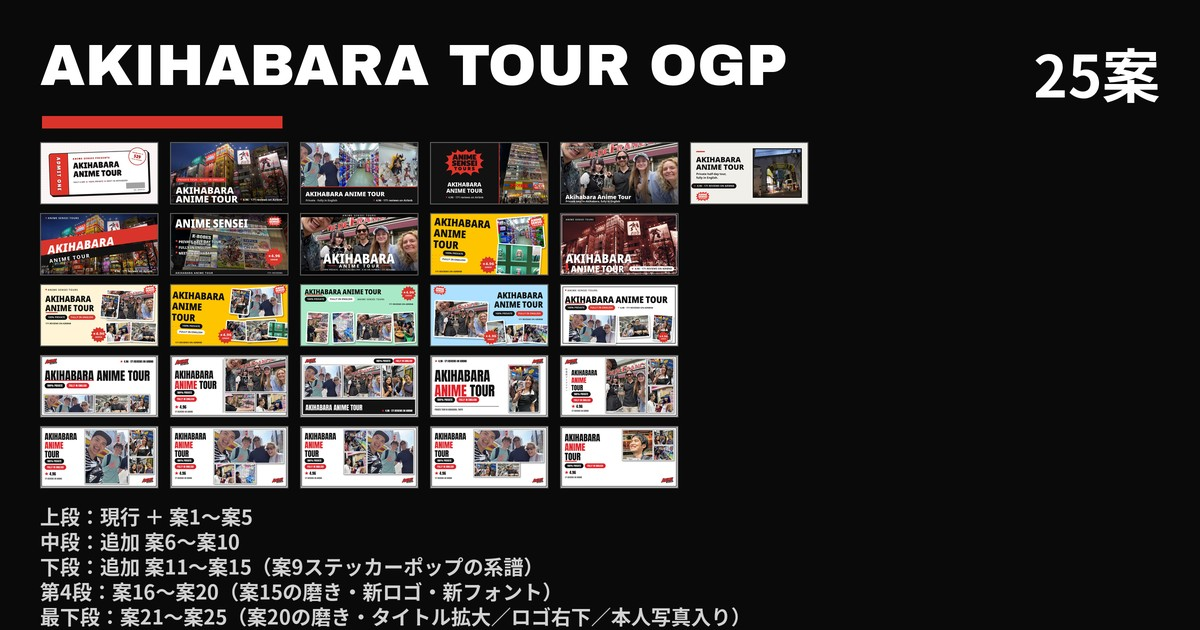
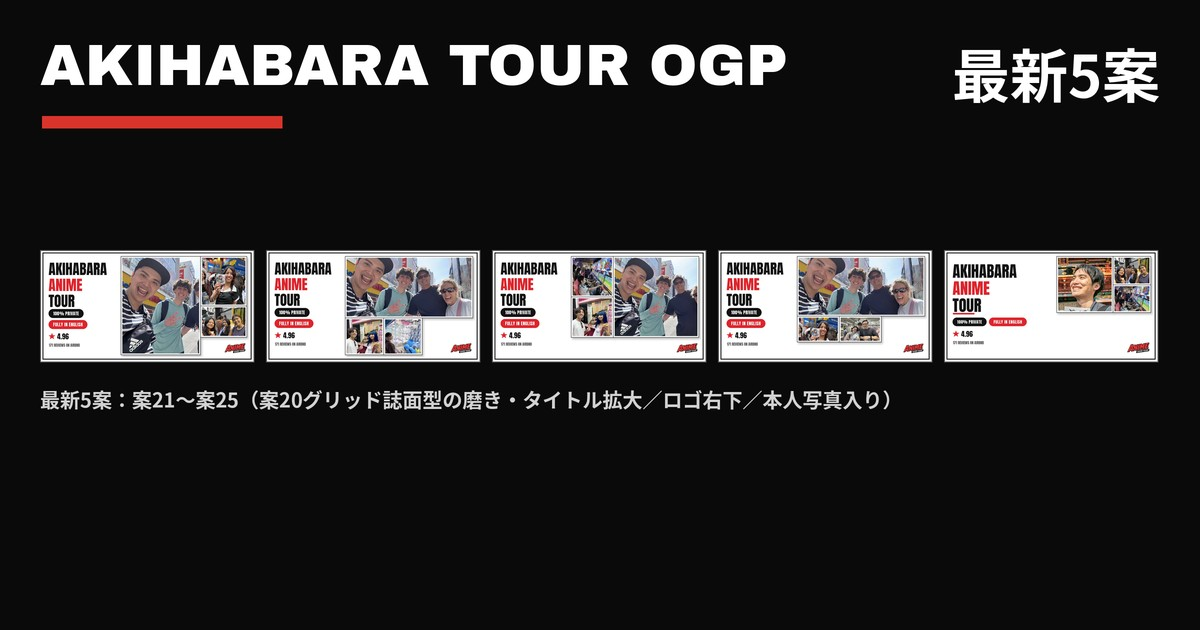
ツアーLP OGPボード: 最新5案（案21-25）のみに整理し、案1-20と現行表示を削除

diff --git a/akiba-tour-ogp/index.html b/akiba-tour-ogp/index.html
@@ -3,9 +3,9 @@
 <head>
 <meta charset="utf-8">
 <meta name="viewport" content="width=device-width, initial-scale=1">
-<title>秋葉原アニメツアーLP OGP 25案</title>
-<meta property="og:title" content="秋葉原アニメツアーLP OGP 25案">
-<meta property="og:description" content="animesenseijp.com/akihabara-tour/ のOGP画像、新デザイン25案の見比べ。現行との比較つき。">
+<title>秋葉原アニメツアーLP OGP 最新5案</title>
+<meta property="og:title" content="秋葉原アニメツアーLP OGP 最新5案">
+<meta property="og:description" content="animesenseijp.com/akihabara-tour/ のOGP画像、最新の5案（案21〜案25）の見比べ。">
 <meta property="og:image" content="https://yukitchy.github.io/booking-trends-board/akiba-tour-ogp/og.jpg">
 <meta property="og:url" content="https://yukitchy.github.io/booking-trends-board/akiba-tour-ogp/">
 <style>
@@ -20,158 +20,18 @@
   section { margin-bottom: 44px; }
   .hd { display: flex; align-items: baseline; gap: 12px; margin-bottom: 10px; flex-wrap: wrap; }
   .num { background: #141414; color: #fff; font-weight: 900; font-size: 15px; padding: 4px 12px; border-radius: 999px; }
-  .num.cur { background: #8a8a8a; }
   .num.new { background: #D9342B; }
   .cap { font-size: 14.5px; font-weight: 700; }
   .sub { font-size: 12.5px; color: #666; width: 100%; }
   img.ogp { width: 1200px; max-width: 100%; height: auto; display: block; border: 1px solid #d8d4cc; background: #fff; }
-  .sep { display: flex; align-items: center; gap: 14px; margin: 56px 0 36px; }
-  .sep .t { font-size: 19px; font-weight: 900; white-space: nowrap; }
-  .sep .l { flex: 1; height: 3px; background: #141414; }
-  .sep .r { width: 64px; height: 3px; background: #D9342B; }
 </style>
 </head>
 <body>
 <div class="wrap">
-  <h1>秋葉原アニメツアーLP<br>OGP画像 25案</h1>
+  <h1>秋葉原アニメツアーLP<br>OGP画像 最新5案</h1>
   <div class="rule"></div>
-  <p class="lead">対象ページ：<a href="https://www.animesenseijp.com/akihabara-tour/">Akihabara Anime Tour（animesenseijp.com/akihabara-tour/）</a>の OGP 画像、新デザイン25案です。案6〜案10は「もっとワクワクさせる、オシャレな感じで」という方向で追加した第2弾、案11〜案15は当たりだった案9（ステッカーポップ型）の系譜で、もっとオシャレに・写真を多く・人がわいわいしている写真を主役に作った第3弾です。案16〜案20は、選ばれた案15（ホワイト・フレーム型）を磨いた第4弾で、ロゴを新しい公式ロゴに、タイトルフォントを Anton に差し替えています。案21〜案25は、選ばれた案20（グリッド誌面型）を磨いた第5弾で、縦書きの日本語を外し、タイトルを大きく左上に寄せ、ロゴを右下に移し、各案にガイド本人の写真（顔が見切れていないもの）を1枚入れています。全案 1200×630・実写真使用。本番の og:image はまだ差し替えていません。</p>
+  <p class="lead">対象ページ：<a href="https://www.animesenseijp.com/akihabara-tour/">Akihabara Anime Tour（animesenseijp.com/akihabara-tour/）</a>の OGP 画像、最新の5案（案21〜案25）です。選ばれた案20（グリッド誌面型）を磨いた第5弾で、縦書きの日本語を外し、タイトルを大きく左上に寄せ、ロゴを右下に移し、各案にガイド本人の写真（顔が見切れていないもの）を1枚入れています。全案 1200×630・実写真使用。本番の og:image はまだ差し替えていません。</p>
   <p class="note">番号で選んでください。選ばれた案を本番に設定します。</p>
-
-  <section>
-    <div class="hd"><span class="num cur">現行</span><span class="cap">チケット風イラスト</span>
-    <span class="sub">いま本番に入っている og-share-v2。写真なしの「ADMIT ONE」チケット風イラスト。比較用。</span></div>
-    <img class="ogp" src="current.jpg" alt="現行OGP">
-  </section>
-
-  <section>
-    <div class="hd"><span class="num">案1</span><span class="cap">夜景フルブリード＋タイポ</span>
-    <span class="sub">秋葉原の夜景を全面に、左下に特大タイトルと赤ピル「PRIVATE TOUR · FULLY IN ENGLISH」。王道タイプ。</span></div>
-    <img class="ogp" src="ogp-1.jpg" alt="案1">
-  </section>
-
-  <section>
-    <div class="hd"><span class="num">案2</span><span class="cap">写真コラージュ3枚＋黒帯</span>
-    <span class="sub">ゲストとの自撮り・ガシャポン・フィギュア展示の3枚＋黒帯タイポ。ツアーの中身が一目で伝わるタイプ。</span></div>
-    <img class="ogp" src="ogp-2.jpg" alt="案2">
-  </section>
-
-  <section>
-    <div class="hd"><span class="num">案3</span><span class="cap">黒ベース＋公式ロゴ＋ラジオ会館</span>
-    <span class="sub">公式バーストロゴ（正本ファイル）主役に、右はラジオ会館の夜景。ブランド重視のタイプ。</span></div>
-    <img class="ogp" src="ogp-3.jpg" alt="案3">
-  </section>
-
-  <section>
-    <div class="hd"><span class="num">案4</span><span class="cap">集合写真フルブリード・文字最小</span>
-    <span class="sub">ゲストとの集合写真を全面に、文字はタイトルと一言だけ。楽しさ・雰囲気重視のタイプ。</span></div>
-    <img class="ogp" src="ogp-4.jpg" alt="案4">
-  </section>
-
-  <section>
-    <div class="hd"><span class="num">案5</span><span class="cap">紙色ベース＋写真フレーム</span>
-    <span class="sub">紙色 #F1EFEA に高架下の路地写真を黒枠で額装、黒タイポ＋評価ピル＋公式ロゴ。eatmap系の明るいタイプ。</span></div>
-    <img class="ogp" src="ogp-5.jpg" alt="案5">
-  </section>
-
-  <div class="sep"><span class="t">追加5案</span><span class="l"></span><span class="r"></span></div>
-
-  <section>
-    <div class="hd"><span class="num new">案6</span><span class="cap">ネオン・スラッシュ</span>
-    <span class="sub">秋葉原の夜景に赤い斜め帯を切り込み、タイトルもイタリックで斜めに走らせた、スピード感と熱量のあるタイプ。</span></div>
-    <img class="ogp" src="ogp-6.jpg" alt="案6">
-  </section>
-
-  <section>
-    <div class="hd"><span class="num new">案7</span><span class="cap">雑誌の表紙型</span>
-    <span class="sub">ラジオ会館の壁面写真を表紙に、マストヘッド＋カバーライン＋スターバーストの評価バッジで、雑誌の表紙の文法で組んだタイプ。</span></div>
-    <img class="ogp" src="ogp-7.jpg" alt="案7">
-  </section>
-
-  <section>
-    <div class="hd"><span class="num new">案8</span><span class="cap">映画ポスター型</span>
-    <span class="sub">ゲストとの集合写真をシネマティックに。上下のレターボックス＋中央の大タイトル＋下部のクレジット風ラインで、映画ポスターの文法に。</span></div>
-    <img class="ogp" src="ogp-8.jpg" alt="案8">
-  </section>
-
-  <section>
-    <div class="hd"><span class="num new">案9</span><span class="cap">ステッカーポップ型</span>
-    <span class="sub">ビビッドな黄色の地に、ガシャポンとフィギュアの写真ステッカー、公式ロゴと評価バッジを散らした、遊び心のあるタイプ。</span></div>
-    <img class="ogp" src="ogp-9.jpg" alt="案9">
-  </section>
-
-  <section>
-    <div class="hd"><span class="num new">案10</span><span class="cap">デュオトーン・ポスター型</span>
-    <span class="sub">秋葉原の夜景を赤系デュオトーンに落とし込み、紙色のフレームと大タイポで、映画ポスターのように仕上げたタイプ。</span></div>
-    <img class="ogp" src="ogp-10.jpg" alt="案10">
-  </section>
-
-
-  <div class="sep"><span class="t">追加5案（案9の系譜）</span><span class="l"></span><span class="r"></span></div>
-
-  <section>
-    <div class="hd"><span class="num new">案11</span><span class="cap">クリーム・グリッド型</span>
-    <span class="sub">柔らかいクリーム地にタイポを整え、ゲストとの写真4枚をグリッド寄せに配置。案9の賑やかさを残しつつ、余白と整列で洗練させたタイプ。</span></div>
-    <img class="ogp" src="ogp-11.jpg" alt="案11">
-  </section>
-
-  <section>
-    <div class="hd"><span class="num new">案12</span><span class="cap">イエロー・スキャッター洗練型</span>
-    <span class="sub">案9の黄色地＋写真ステッカー散らしを整えた進化版。集合自撮りを主役に、人写真4枚＋フィギュア1枚を散らしたタイプ。</span></div>
-    <img class="ogp" src="ogp-12.jpg" alt="案12">
-  </section>
-
-  <section>
-    <div class="hd"><span class="num new">案13</span><span class="cap">ミント・バンド型</span>
-    <span class="sub">爽やかなミント地。上部にタイトルのバンド、下段に人の写真4枚を整列させた、清潔感のあるタイプ。</span></div>
-    <img class="ogp" src="ogp-13.jpg" alt="案13">
-  </section>
-
-  <section>
-    <div class="hd"><span class="num new">案14</span><span class="cap">スカイ・ポラロイド型</span>
-    <span class="sub">空色地に特大の集合写真ステッカーを主役に据え、小さなステッカー3枚を添えたタイプ。人の楽しさが一番大きく伝わるタイプ。</span></div>
-    <img class="ogp" src="ogp-14.jpg" alt="案14">
-  </section>
-
-  <section>
-    <div class="hd"><span class="num new">案15</span><span class="cap">ホワイト・フレーム型</span>
-    <span class="sub">白地＋黒フレームの編集デザイン。写真は人の笑顔3枚に絞り、タイポと余白で魅せる一番すっきりしたタイプ。</span></div>
-    <img class="ogp" src="ogp-15.jpg" alt="案15">
-  </section>
-
-  <div class="sep"><span class="t">追加5案（案15の磨き）</span><span class="l"></span><span class="r"></span></div>
-
-  <section>
-    <div class="hd"><span class="num new">案16</span><span class="cap">王道磨き型</span>
-    <span class="sub">案15の骨格そのままに、新ロゴ＋Antonで締め直した王道版。写真は傾けず真っ直ぐに並べ、タイトル下の赤ラインとピルで整えたタイプ。</span></div>
-    <img class="ogp" src="ogp-16.jpg" alt="案16">
-  </section>
-
-  <section>
-    <div class="hd"><span class="num new">案17</span><span class="cap">左右分割型</span>
-    <span class="sub">左にロゴ・タイトル・ピル・評価、右に写真3枚を置いた左右分割。雑誌の誌面のような構成のタイプ。</span></div>
-    <img class="ogp" src="ogp-17.jpg" alt="案17">
-  </section>
-
-  <section>
-    <div class="hd"><span class="num new">案18</span><span class="cap">写真主役・下帯型</span>
-    <span class="sub">笑顔の写真3枚を大きく見せ、タイトルと評価は下の黒帯に集約。写真の楽しさが主役のタイプ。</span></div>
-    <img class="ogp" src="ogp-18.jpg" alt="案18">
-  </section>
-
-  <section>
-    <div class="hd"><span class="num new">案19</span><span class="cap">タイポ主役型</span>
-    <span class="sub">特大のタイトルタイポが主役。右に縦長の笑顔写真を1枚大きく置き、余白で魅せるタイプ。</span></div>
-    <img class="ogp" src="ogp-19.jpg" alt="案19">
-  </section>
-
-  <section>
-    <div class="hd"><span class="num new">案20</span><span class="cap">グリッド誌面型</span>
-    <span class="sub">縦書きの日本語を添えたグリッド誌面型。写真は大1枚＋小2枚の非対称グリッドで、編集デザインの色が一番濃いタイプ。</span></div>
-    <img class="ogp" src="ogp-20.jpg" alt="案20">
-  </section>
-
-  <div class="sep"><span class="t">追加5案（案20の磨き）</span><span class="l"></span><span class="r"></span></div>
 
   <section>
     <div class="hd"><span class="num new">案21</span><span class="cap">グリッド正統磨き型</span>
